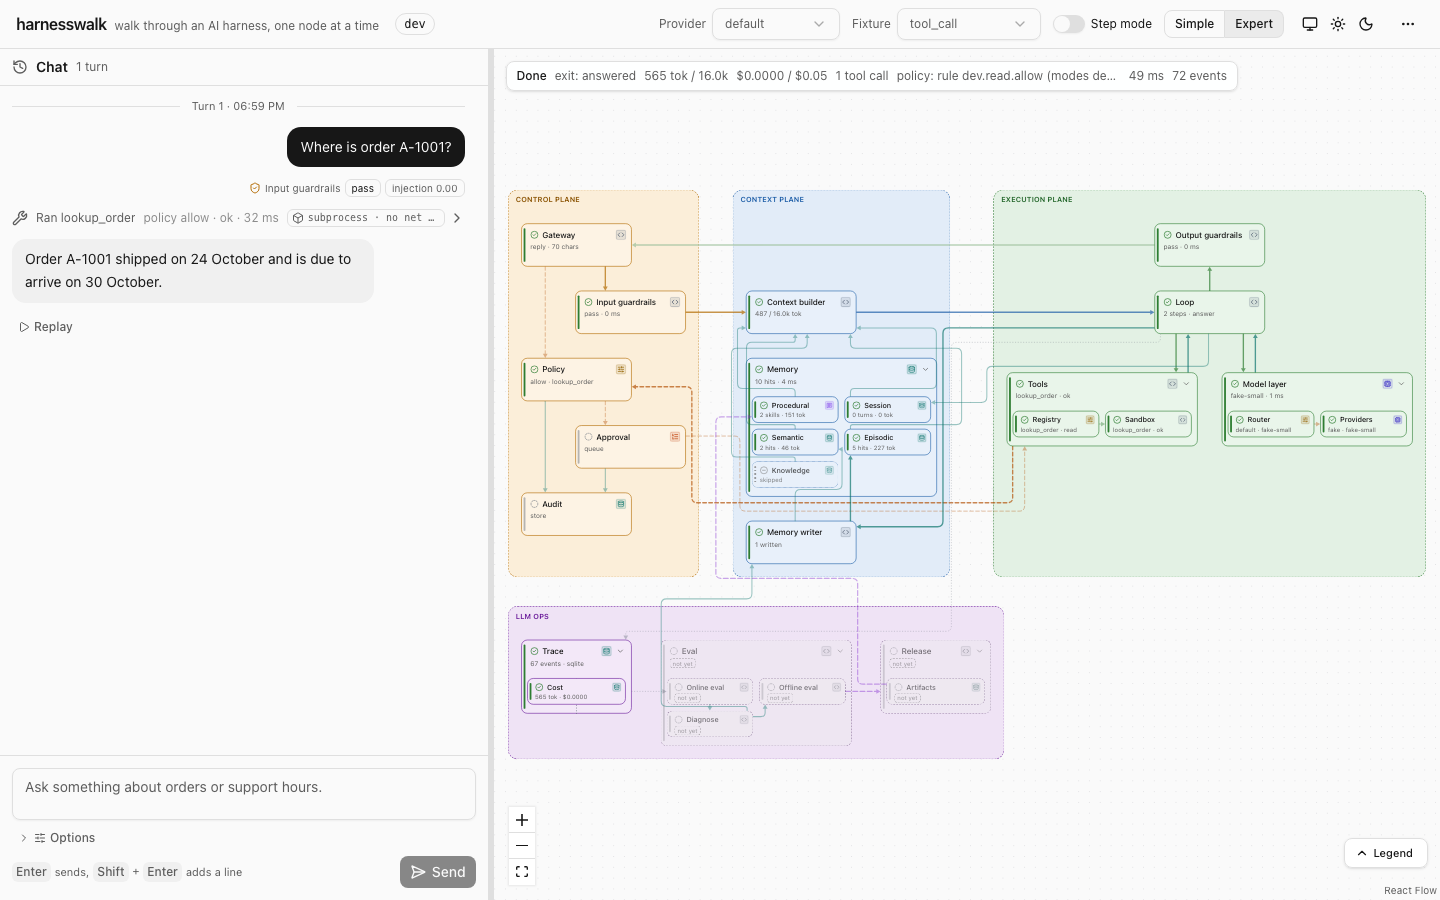
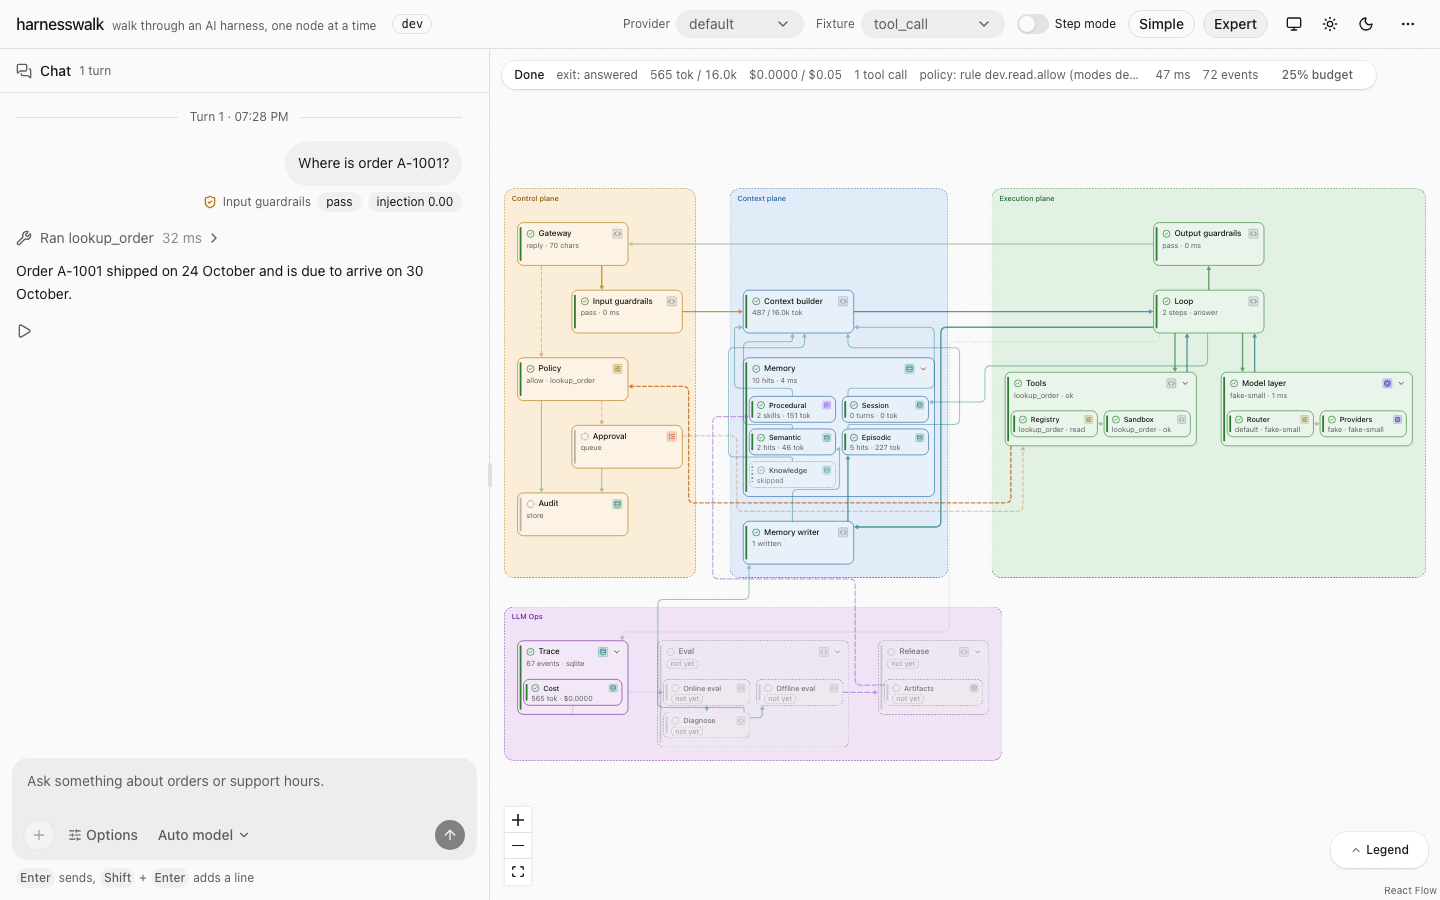
docs(screenshots): recapture on the AI Elements look, add chat.png
The approval, citations, inspector (now a docked pane) and finished-turn
shots show the radix-rhea components; chat.png is the chat panel alone
with a tool line opened, the reply, the Replay action and the composer.

diff --git a/web/e2e-live/screenshots.spec.ts b/web/e2e-live/screenshots.spec.ts
@@ -88,6 +88,17 @@ test('the approval card', async ({ page }) => {
   await page.screenshot({ path: out('approval-card') })
 })
 
+test('the chat panel', async ({ page }) => {
+  // chat.png: the AI Elements look: muted user bubble, a tool line opened to its details, the
+  // reply without a bubble, the Replay action and the composer with the plus and arrow-up send.
+  await turn(page, 'tool_call', 'Where is order A-1001?')
+  await expect(page.getByTestId('turn-status')).toHaveAttribute('data-phase', 'done')
+  await page.getByTestId('tool-line').last().click()
+  await expect(page.getByTestId('tool-details')).toBeVisible()
+  await settle(page)
+  await page.getByRole('region', { name: 'Chat' }).screenshot({ path: out('chat') })
+})
+
 test('the inspector code tab', async ({ page }) => {
   await turn(page, 'tool_call', 'Where is order A-1001?')
   await expect(page.getByTestId('turn-status')).toHaveAttribute('data-phase', 'done')

diff --git a/README.md b/README.md
@@ -183,7 +183,9 @@ answers with a real local model instead.
   marks `cancel_order` as destructive, the turn pauses on the Approval node, and a card in the
   chat waits for your Approve or Deny.
 
-![The approval card: the turn waits on the Approval node until a human decides](docs/screenshots/approval-card.png)
+![The approval: the tool line waits and a Run cancel_order? prompt asks for Deny or Approve while the turn waits on the Approval node](docs/screenshots/approval-card.png)
+
+![The chat: a muted question bubble, a tool line opened to its policy and sandbox, the reply, the Replay action, and the message input with its plus and arrow-up send](docs/screenshots/chat.png)
 
 - **Memory and citations (P3).** Pick `trailhead_return` and ask "Can I return order A-1003,
   the Trailhead backpack?". All five memory badges light (procedural, session, a seed fact and
